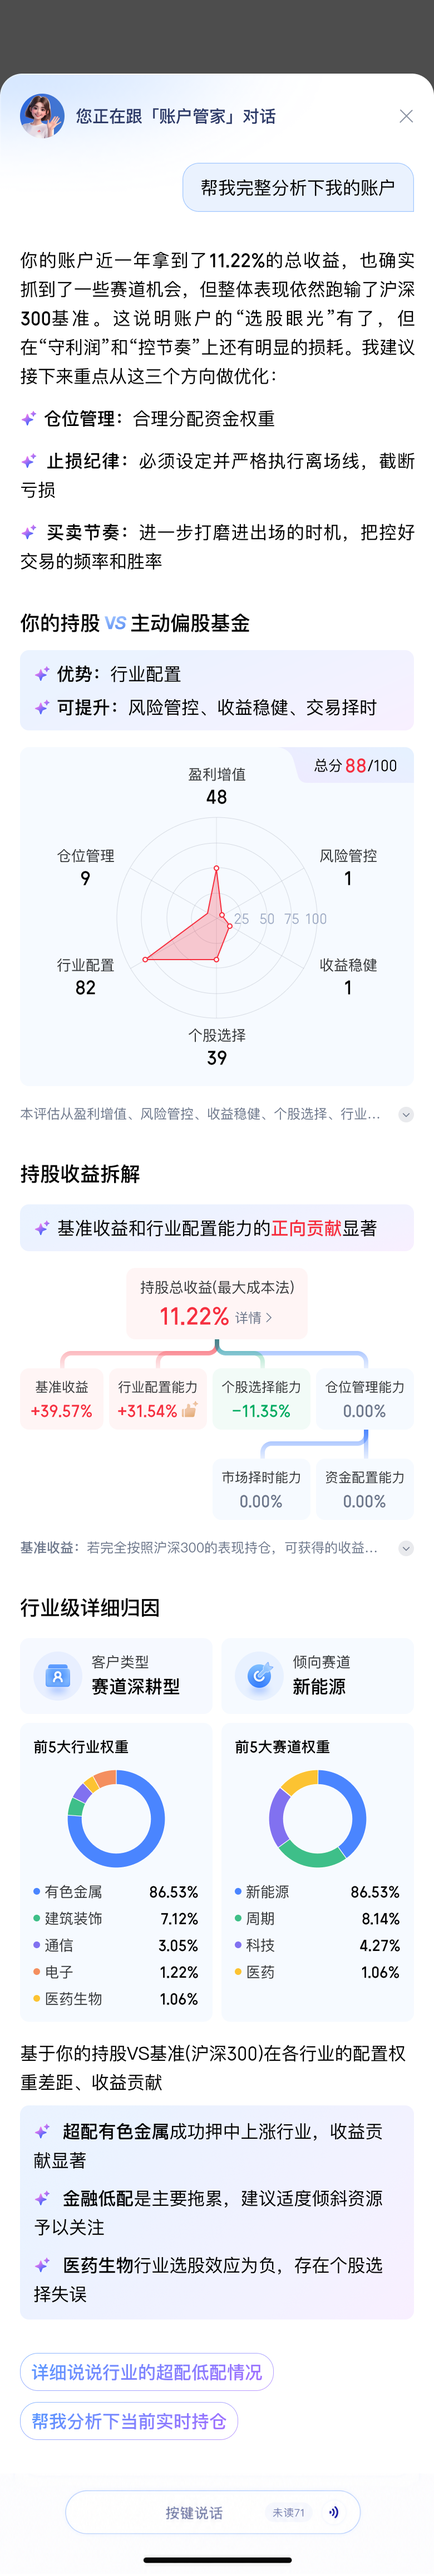
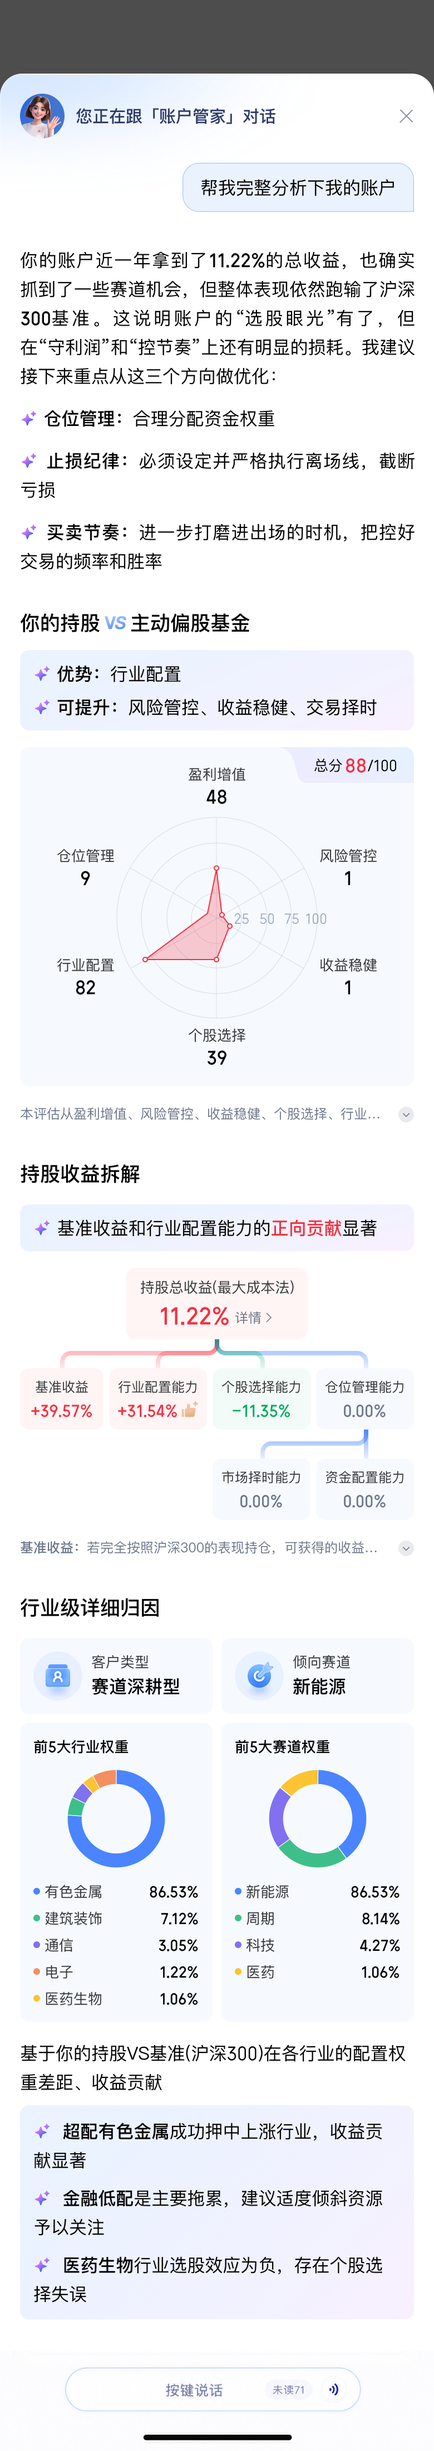
feat(ui&chat): 更新今日热议弹幕与优化AI流式聊天体验
更新今日所有热议弹幕项的配置、文本与提示词，新增大V弹幕样式并添加对应CSS规则。新增根据文本长度动态调整AI回复流式延迟的逻辑，优化聊天体验。替换AI交易员页面图片格式，清理旧资源与无用引导配置，移除多余的加号按钮并调整相关事件监听。

diff --git a/index.html b/index.html
@@ -138,56 +138,56 @@
               <article class="today-panel" id="todayPanel" aria-label="今日热议弹幕" aria-hidden="false">
                 <div class="today-barrage-lane lane-1">
                   <button class="today-barrage-item" type="button" data-kind="stock"
-                    data-prompt="京东方A今天为什么被反复提到？请结合资金、题材和风险分析">
-                    <i>股票</i><span>京东方A</span><em>面板涨价</em>
+                    data-prompt="京东方A今天为什么放量？请结合资金、题材和风险分析">
+                    <i>热股</i><span>京东方A</span>
                   </button>
                   <button class="today-barrage-item" type="button" data-kind="question"
-                    data-prompt="今天为什么小票情绪突然变强？请结合成交量、题材和风险偏好解释">
-                    <i>热问</i><span>小票情绪</span><em>资金切换</em>
+                    data-prompt="美联储最新降息预期怎么变化？帮我分析对A股和港股的影响">
+                    <i>热问</i><span>美联储降息还有戏吗？</span>
+                  </button>
+                  <button class="today-barrage-item" type="button" data-kind="v"
+                    data-prompt="帮我获取李大霄今天或最近发布的观点，直接整理核心内容和主要判断">
+                    <i>大V</i><span>李大霄：A股仍有韧性</span>
                   </button>
                   <button class="today-barrage-item" type="button" data-kind="skill"
-                    data-prompt="用资金流追踪Skill分析我的自选股，找出今天资金异动最大的标的">
-                    <i>Skill</i><span>资金流追踪</span><em>热门调用</em>
-                  </button>
-                  <button class="today-barrage-item" type="button" data-kind="theme"
-                    data-prompt="机器人主题今天强在哪里？请找出核心标的、扩散路径和风险点">
-                    <i>主题</i><span>机器人主题</span><em>扩散路径</em>
+                    data-prompt="帮我检查自选股资金异动，找出今天最值得关注的标的">
+                    <i>Skill</i><span>查自选股资金异动</span>
                   </button>
                 </div>
                 <div class="today-barrage-lane lane-2">
-                  <button class="today-barrage-item" type="button" data-kind="stock"
-                    data-prompt="帮我分析寒武纪今天的资金流和AI芯片主线是否还能延续">
-                    <i>股票</i><span>寒武纪</span><em>AI芯片</em>
-                  </button>
                   <button class="today-barrage-item" type="button" data-kind="question"
                     data-prompt="半导体今天还能追吗？帮我判断主线强度和买点风险">
-                    <i>热问</i><span>半导体还能追吗</span><em>连续热议</em>
-                  </button>
-                  <button class="today-barrage-item" type="button" data-kind="theme"
-                    data-prompt="资金为什么又回到AI硬件？帮我分析持续性和相关标的">
-                    <i>主题</i><span>AI硬件回流</span><em>持续性</em>
+                    <i>热问</i><span>半导体还能追吗？</span>
                   </button>
                   <button class="today-barrage-item" type="button" data-kind="skill"
-                    data-prompt="帮我组合三个热门Skill，生成一套今天的看盘流程">
-                    <i>Skill</i><span>看盘Skill组合</span><em>盘前流程</em>
+                    data-prompt="帮我创建自动打新任务，跟踪新股申购、中签提醒和可转债机会">
+                    <i>Skill</i><span>帮我自动打新</span>
+                  </button>
+                  <button class="today-barrage-item" type="button" data-kind="stock"
+                    data-prompt="寒武纪资金还在进吗？帮我结合成交量、主力资金和AI芯片主线分析">
+                    <i>热股</i><span>寒武纪</span>
+                  </button>
+                  <button class="today-barrage-item" type="button" data-kind="v"
+                    data-prompt="帮我获取但斌最近发布的内容，整理他当前关注的方向和核心观点">
+                    <i>大V</i><span>但斌：继续看好AI</span>
                   </button>
                 </div>
                 <div class="today-barrage-lane lane-3">
-                  <button class="today-barrage-item" type="button" data-kind="theme"
-                    data-prompt="红利资产最近讨论变多，帮我判断是防御配置还是趋势机会">
-                    <i>主题</i><span>红利资产</span><em>防御配置</em>
+                  <button class="today-barrage-item" type="button" data-kind="v"
+                    data-prompt="帮我获取任泽平最新发布的宏观分析，整理关键信号和对A股的潜在影响">
+                    <i>大V</i><span>任泽平：政策仍是主线</span>
                   </button>
                   <button class="today-barrage-item" type="button" data-kind="question"
-                    data-prompt="今天哪些问题的答案最容易影响明天开盘？">
-                    <i>热问</i><span>哪些问题影响明天</span><em>开盘前</em>
-                  </button>
-                  <button class="today-barrage-item" type="button" data-kind="stock"
-                    data-prompt="机器人ETF今天热度升温，帮我找出核心驱动和相关龙头">
-                    <i>股票</i><span>机器人ETF</span><em>板块放量</em>
+                    data-prompt="明天开盘最该看什么？帮我按指数、主线、资金和风险整理观察点">
+                    <i>热问</i><span>明天开盘看什么？</span>
                   </button>
                   <button class="today-barrage-item" type="button" data-kind="skill"
-                    data-prompt="用持仓诊断Skill检查我的账户风险，并给出优化顺序">
-                    <i>Skill</i><span>持仓诊断</span><em>账户常用</em>
+                    data-prompt="帮我盯做T信号，发现适合高抛低吸的机会时提醒我">
+                    <i>Skill</i><span>帮我盯做T信号</span>
+                  </button>
+                  <button class="today-barrage-item" type="button" data-kind="stock"
+                    data-prompt="机器人ETF接下来怎么走？帮我分析核心驱动、相关龙头和风险点">
+                    <i>热股</i><span>机器人ETF</span>
                   </button>
                 </div>
               </article>
@@ -316,7 +316,6 @@
                     <path d="M6 10h.01M10 10h.01M14 10h.01M18 10h.01M8 14h8" />
                   </svg>
                 </button>
-                <button class="round-action" id="plusEntryBtn" type="button" aria-label="添加">＋</button>
               </div>
             </section>
 

diff --git a/script.js b/script.js
@@ -31,14 +31,14 @@ const screens = {
       h: 3.6,
       copy: "长按进行编辑页面"
     },
-    nextGuide: {
-      id: "market-top-signal",
-      layer: "scroll",
-      x: 50,
-      y: 3.8,
-      w: 45,
-      h: 5.8
-    }
+    // nextGuide: {
+    //   id: "market-top-signal",
+    //   layer: "scroll",
+    //   x: 50,
+    //   y: 3.8,
+    //   w: 45,
+    //   h: 5.8
+    // }
   },
   customize: {
     src: "./assets/screens/customize-cards.png",
@@ -62,15 +62,15 @@ const screens = {
     scrollHotspots: [
       { label: "查看我的账户", x: 81, y: 2.9, w: 13, h: 4.8, target: "account" },
       { label: "查看特别提醒", x: 6.8, y: 28.4, w: 40.4, h: 7.5, target: "specialNotice" },
-      { label: "呼叫AI交易员制定计划", x: 60, y: 34, w: 29, h: 3.5, target: "chat", chatTab: "AI交易员" },
+      { label: "呼叫AI交易员制定计划", x: 60, y: 34, w: 29, h: 3.5, target: "aiTrader" },
       { label: "查看工业富联投资机会分析", x: 7, y: 70, w: 86, h: 4.5, target: "morningListChat" },
       { label: "热点主题",x: 10, y: 53, w: 85, h: 3.5, target: "reportSubject" }
     ],
     fixedHotspots: [],
     guide: [
-      { id: "report-multi-guide", layer: "scroll", x: 7.8, y: 28.4, w: 45.4, h: 8.5 },
-      { id: "report-multi-guide", layer: "scroll",  x: 60, y: 34, w: 29, h: 3.5},
-      { id: "report-multi-guide", layer: "scroll", x: 7, y: 70, w: 86, h: 4.5, }, 
+      // { id: "report-multi-guide", layer: "scroll", x: 7.8, y: 28.4, w: 45.4, h: 8.5 },
+      // { id: "report-multi-guide", layer: "scroll",  x: 60, y: 34, w: 29, h: 3.5},
+      // { id: "report-multi-guide", layer: "scroll", x: 7, y: 70, w: 86, h: 4.5, }, 
     ]
   },
   morningListChat: {
@@ -86,7 +86,7 @@ const screens = {
     scrollHotspots: [
       { label: "查看我的账户", x: 81, y: 2.9, w: 13, h: 4.8, target: "account" },
       { label: "查看特别提醒", x: 6.8, y: 28.4, w: 40.4, h: 7.5, target: "specialNotice" },
-      { label: "呼叫AI交易员制定计划", x: 60, y: 34, w: 29, h: 3.5, target: "chat", chatTab: "AI交易员" },
+      { label: "呼叫AI交易员制定计划", x: 60, y: 34, w: 29, h: 3.5, target: "aiTrader" },
       { label: "重磅事件", x: 10, y: 53, w: 85, h: 3.5, target: "report" }
     ],
     fixedHotspots: [],
@@ -137,7 +137,7 @@ const screens = {
     guide: null
   },
   aiTrader: {
-    src: "./assets/screens/ai-trader.jpg",
+    src: "./assets/screens/ai-trader.png",
     scrollHotspots: [
       { label: "关闭AI交易员", x: 2.5, y: 5.2, w: 12, h: 7, target: "report" }
     ],
@@ -248,8 +248,7 @@ const screens = {
     ],
     fixedHotspots: [],
     guide: [
-      { id: "trans-more-nav", layer: "fixed", x: 80, y: 0, w: 20, h: 100 },
-      { id: "trans-ai-trader", layer: "scroll", x: 25, y: 4.5, w: 70, h: 16.5}
+      // { id: "trans-ai-trader", layer: "scroll", x: 25, y: 4.5, w: 70, h: 16.5}
     ]
   },
   aiTrader2: {
@@ -1175,7 +1174,7 @@ moreMenu.querySelector(".more-menu-custom-nav").addEventListener("click", () => 
 
 moreModal.querySelector(".more-backdrop").addEventListener("click", () => closeMoreModal());
 moreModal.querySelector(".more-close-left").addEventListener("click", () => closeMoreModal());
-moreModal.querySelector(".more-close-right").addEventListener("click", () => closeMoreModal("chat"));
+moreModal.querySelector(".more-close-right").addEventListener("click", () => closeMoreModal());
 customizeSaveButton.addEventListener("click", () => closeCustomizeOverlay());
 
 window.addEventListener("resize", () => {
@@ -1305,10 +1304,17 @@ function scheduleTraderStep(callback, delay) {
   traderStreamTimers.push(timer);
 }
 
+function getTraderChunkDelay(chunk) {
+  const plainTextLength = chunk.replace(/<[^>]+>/g, "").trim().length;
+  return Math.min(1100, 420 + plainTextLength * 9);
+}
+
 function streamTraderChunks(chunks, onComplete) {
   const bubble = appendTraderScriptMessage("assistant", "", { rich: true });
   bubble.classList.add("is-streaming");
+  let elapsed = 260;
   chunks.forEach((chunk, index) => {
+    elapsed += getTraderChunkDelay(chunk);
     scheduleTraderStep(() => {
       bubble.insertAdjacentHTML("beforeend", chunk);
       chatStream.scrollTop = chatStream.scrollHeight;
@@ -1316,7 +1322,7 @@ function streamTraderChunks(chunks, onComplete) {
         bubble.classList.remove("is-streaming");
         onComplete?.();
       }
-    }, 180 + index * 260);
+    }, elapsed);
   });
 }
 
@@ -1346,10 +1352,10 @@ function showTraderScriptConversation() {
   streamTraderChunks(traderIntroChunks, () => {
     scheduleTraderStep(() => {
       appendTraderScriptMessage("user", "那我以后有交易想法，直接 @ 你就行？");
-    }, 380);
+    }, 760);
     scheduleTraderStep(() => {
       streamTraderChunks(traderFollowupChunks, appendTraderScenarioActions);
-    }, 780);
+    }, 1380);
   });
 }
 
@@ -1360,19 +1366,19 @@ function showTraderScenario2Conversation() {
       streamTraderChunks(traderScenario2OpportunityChunks, () => {
         scheduleTraderStep(() => {
           appendTraderScriptMessage("user", "现在要怎么处理？");
-        }, 380);
+        }, 760);
         scheduleTraderStep(() => {
           streamTraderChunks(traderScenario2AdviceChunks, () => {
             scheduleTraderStep(() => {
               appendTraderScriptMessage("user", "确认并交给你执行。");
-            }, 380);
+            }, 760);
             scheduleTraderStep(() => {
               streamTraderChunks(traderScenario2ConfirmChunks);
-            }, 780);
+            }, 1380);
           });
-        }, 780);
+        }, 1380);
       });
-    }, 520);
+    }, 900);
   });
 }
 
@@ -1383,23 +1389,23 @@ function showTraderScenario3Conversation() {
     streamTraderChunks(traderScenario3ClarifyChunks, () => {
       scheduleTraderStep(() => {
         appendTraderScriptMessage("user", "按稳妥一点的方式来，单只别超过 10%。");
-      }, 380);
+      }, 760);
       scheduleTraderStep(() => {
         streamTraderChunks(traderScenario3RiskChunks, () => {
           scheduleTraderStep(() => {
             streamTraderChunks(traderScenario3PlanChunks, () => {
               scheduleTraderStep(() => {
                 appendTraderScriptMessage("user", "确认建仓计划。");
-              }, 380);
+              }, 760);
               scheduleTraderStep(() => {
                 streamTraderChunks(traderScenario3ConfirmChunks);
-              }, 780);
+              }, 1380);
             });
-          }, 520);
+          }, 900);
         });
-      }, 780);
+      }, 1380);
     });
-  }, 420);
+  }, 860);
 }
 
 function streamReply(promptText) {
@@ -1852,7 +1858,7 @@ keyboardToggle.addEventListener("click", () => {
   setKeyboardMode(!chatInteraction.classList.contains("keyboard-mode"));
 });
 
-plusEntryBtn.addEventListener("click", () => {
+plusEntryBtn?.addEventListener("click", () => {
   setKeyboardMode(true);
   const open = !plusPanel.classList.contains("show");
   plusPanel.classList.toggle("show", open);

diff --git a/styles.css b/styles.css
@@ -5652,6 +5652,11 @@ body {
   color: #26834a;
 }
 
+.today-barrage-item[data-kind="v"] i {
+  background: #f0f3ff;
+  color: #6548d8;
+}
+
 .today-barrage-item[data-kind="question"] i {
   background: #fff7e9;
   color: #c66a10;
